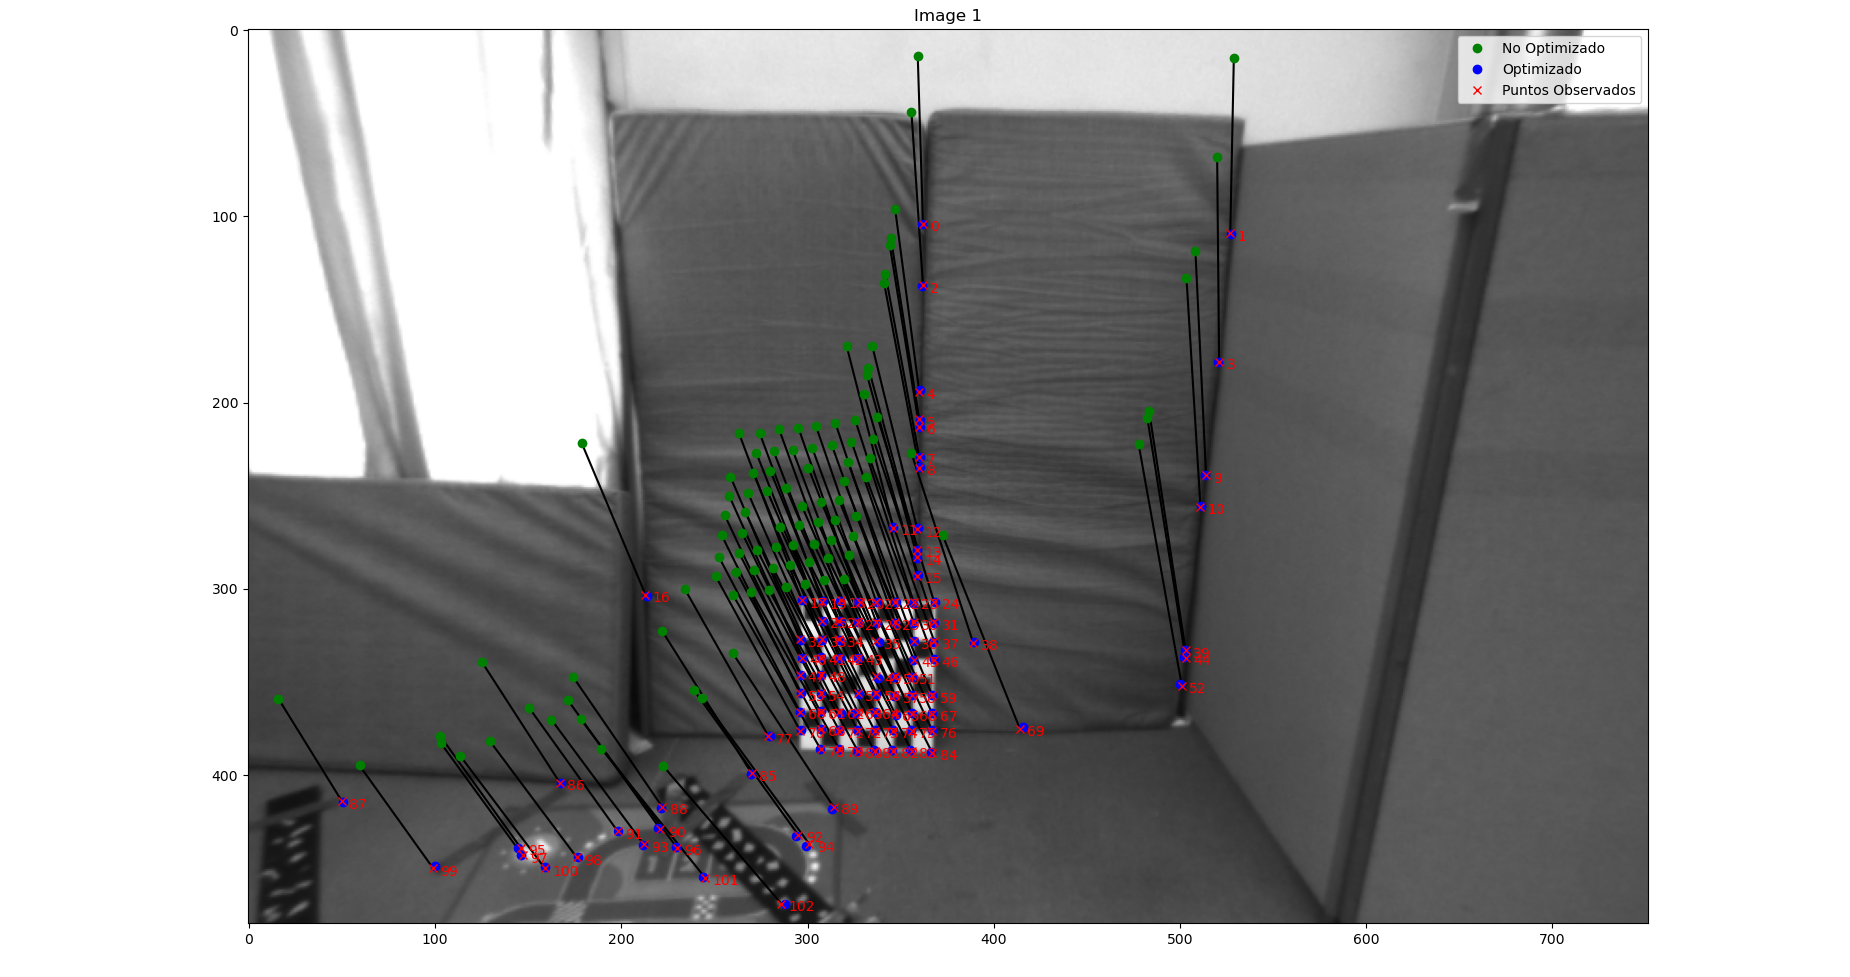
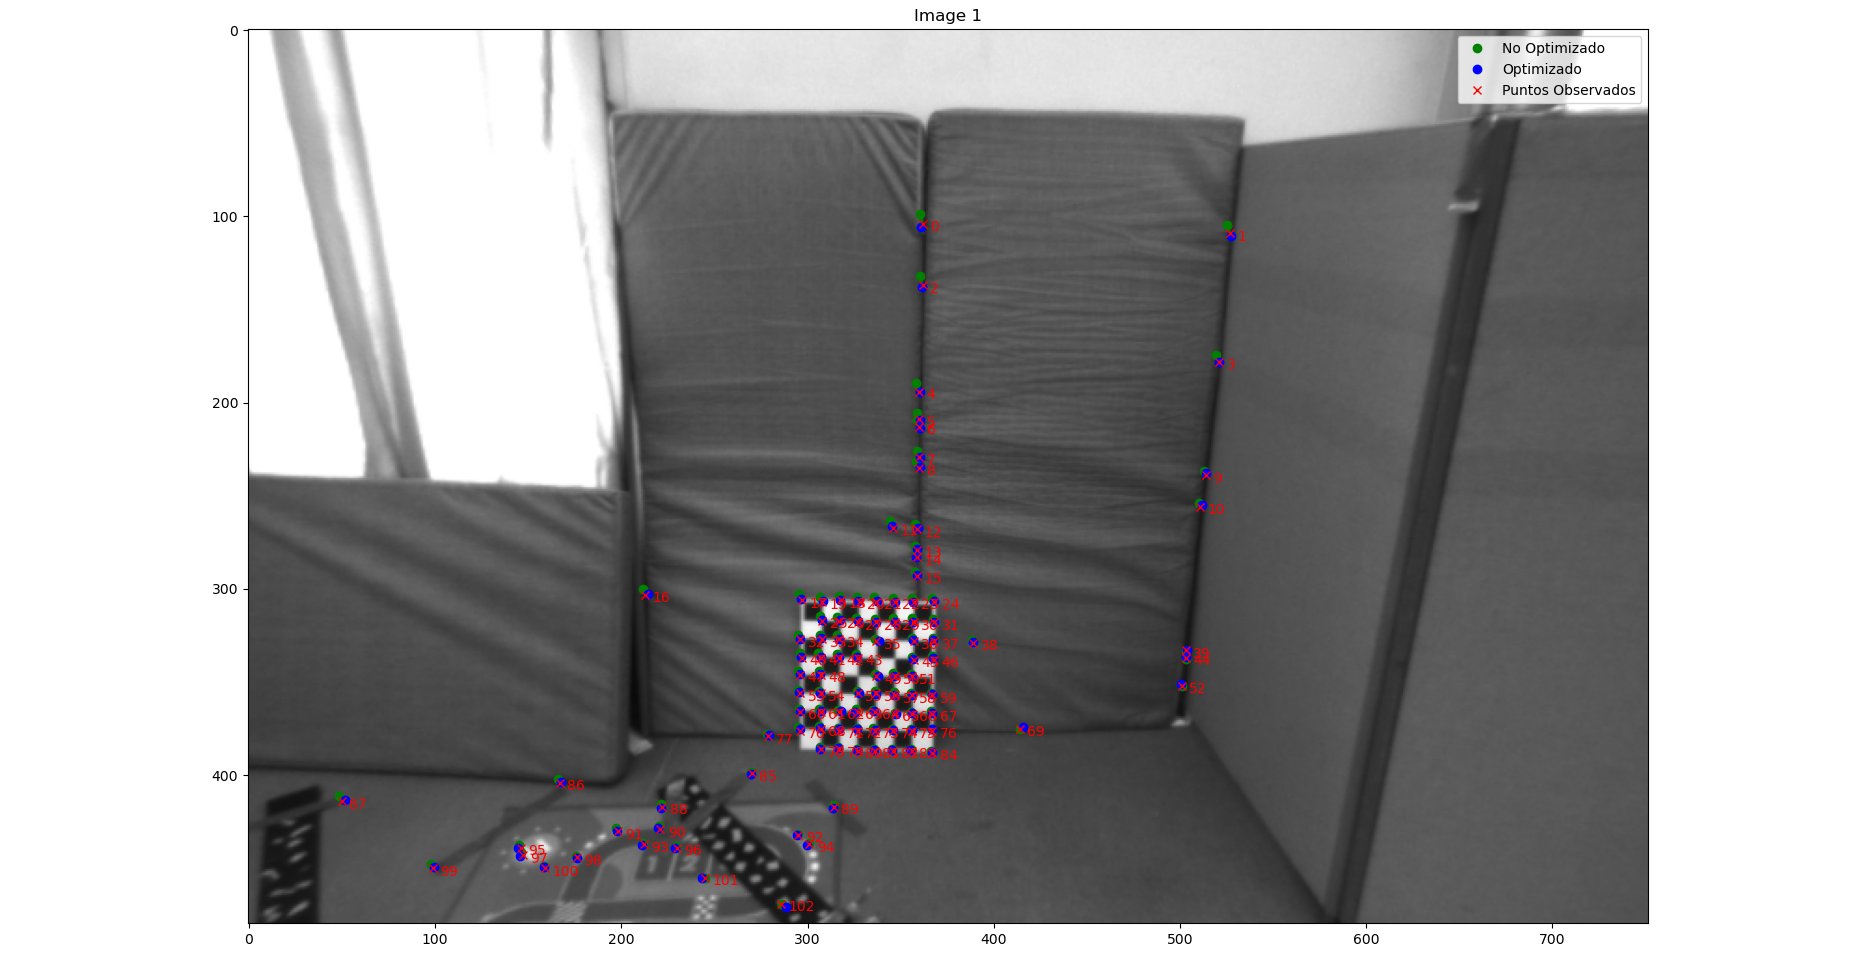
p4 last details

diff --git a/p4/main2_2.py b/p4/main2_2.py
@@ -1,0 +1,156 @@
+#####################################################################################
+#
+# MRGCV Unizar - Computer vision - Laboratory 3
+#
+# Title: Bundle Adjustment and Multiview Geometry
+#
+# Date: 26 October 2020
+#
+#####################################################################################
+#
+# Authors: Jesus Bermudez, Richard Elvira, Jose Lamarca, JMM Montiel
+#
+# Version: 1.0
+#
+#####################################################################################
+
+from mpl_toolkits.mplot3d import Axes3D
+
+import matplotlib.pyplot as plt
+import numpy as np
+import cv2
+import scipy.linalg as scAlg
+import csv
+import scipy as sc
+import scipy.optimize as scOptim
+import scipy.io as sio
+
+import utils.utils as utils
+import utils.plot_utils as plot_utils
+from scipy.linalg import expm, logm
+import time
+
+work_dir = "/home/hsunekichi/Desktop/Computer_Vision_Practicas/p4/"
+work_dir = ""
+
+def load_data():
+    T_wc1 = np.loadtxt(work_dir+"data/T_w_c1.txt")
+    T_wc2 = np.loadtxt(work_dir+"data/T_w_c2.txt")
+    T_wc3 = np.loadtxt(work_dir+"data/T_w_c3.txt")
+    K_c = np.loadtxt(work_dir+"data/K_c.txt")
+    X_w = np.loadtxt(work_dir+"data/X_w.txt")
+    x1Data = np.loadtxt(work_dir+"data/x1Data.txt")
+    x2Data = np.loadtxt(work_dir+"data/x2Data.txt")
+    x3Data = np.loadtxt(work_dir+"data/x3Data.txt")
+    return T_wc1, T_wc2, T_wc3, K_c, X_w, x1Data, x2Data, x3Data
+
+
+
+if __name__ == "__main__":
+    np.set_printoptions(precision=4,linewidth=1024,suppress=True)
+
+    _, _, _, K_c, _, x1Data, x2Data, x3Data = load_data()
+
+    #plot_utils.plot_3D_scene(T_wc1, T_wc2, T_wc3, X_w)
+    
+    im1_pth = work_dir+"images/image1.png"
+    im2_pth = work_dir+"images/image2.png"
+    im3_pth = work_dir+"images/image3.png"
+
+    image1 = cv2.imread(im1_pth)
+    image2 = cv2.imread(im2_pth)
+    image3 = cv2.imread(im3_pth)
+
+    # Construct the matches
+    kpCv1 = []
+    kpCv2 = []
+    kpCv3 = []
+    for kPoint in range(x1Data.shape[1]):
+        kpCv1.append(cv2.KeyPoint(x1Data[0, kPoint], x1Data[1, kPoint],1))
+        kpCv2.append(cv2.KeyPoint(x2Data[0, kPoint], x2Data[1, kPoint],1))
+        kpCv3.append(cv2.KeyPoint(x3Data[0, kPoint], x3Data[1, kPoint],1))
+
+
+    srcPts12, dstPts12, R12, t12 = utils.linearPoseEstimation(x1Data, x2Data, kpCv1, kpCv2, K_c)
+    srcPts13, dstPts13, R13, t13 = utils.linearPoseEstimation(x1Data, x3Data, kpCv1, kpCv3, K_c)
+
+    T_wc1 = np.eye(4)   # se toma la primera cámara como referencia
+    T_wc2 = utils.ensamble_T(R12, t12)
+    T_wc3 = utils.ensamble_T(R13, t13)
+
+    P1 = utils.projectionMatrix(K_c, T_wc1) 
+    P2 = utils.projectionMatrix(K_c, T_wc2)
+    P3 = utils.projectionMatrix(K_c, T_wc3)
+
+    X_w = utils.triangulate_points(P1, P2, srcPts12, dstPts12)
+    X_w3 = utils.triangulate_points(P1, P3, srcPts13, dstPts13)
+
+    x1_no_opt = utils.project_points(K_c, T_wc1, X_w)
+    x2_no_opt = utils.project_points(K_c, T_wc2, X_w)
+    x3_no_opt = utils.project_points(K_c, T_wc3, X_w3)
+    
+    ejecucion_R = False
+
+    #######################
+    if ejecucion_R:
+        T_wc_list = [T_wc1, T_wc2, T_wc3]
+        theta_t_list = utils.convert_T_wc_to_theta_t_list(T_wc_list)
+        xData_list = [x1Data, x2Data, x3Data]
+        theta_t_opt_list, X_w_opt = utils.resBundleProjection_2(theta_t_list, K_c, X_w, xData_list)
+
+        projected_points_list = utils.project_points_multi_view(theta_t_opt_list, K_c, X_w_opt)
+        x1_p_opt, x2_p_opt, x3_p_opt = projected_points_list
+
+        plot_utils.visualize_projection_2(image1, x1Data, x1_no_opt, x1_p_opt, 'Image 1')
+        plot_utils.visualize_projection_2(image2, x2Data, x2_no_opt, x2_p_opt, 'Image 2')
+        plot_utils.visualize_projection_2(image3, x3Data, x3_no_opt, x3_p_opt, 'Image 3')
+
+    else:
+        x1 = x1Data
+        x2 = x2Data
+        x3 = x3Data
+        using_2_views = False
+        if using_2_views:
+            T_wc1_opt, T_wc2_opt, X_w_opt = utils.run_bundle_adjustment_two_views(T_wc1, T_wc2, K_c, X_w, x1, x2)
+            T_wc1_opt, T_wc3_opt, X_w_opt = utils.run_bundle_adjustment_two_views(T_wc1_opt, T_wc3, K_c, X_w_opt, x1, x3)
+            print("TWO-VIEW")
+        else:
+            start_time = time.time()
+            T_wc_opt_list, X_w_opt = utils.run_bundle_adjustmentFull([T_wc1, T_wc2, T_wc3], K_c, X_w, [x1, x2, x3])
+            end_time = time.time()  
+            T_wc1_opt, T_wc2_opt, T_wc3_opt = T_wc_opt_list
+            elapsed_time_2 = end_time - start_time
+            print(f"Tiempo empleado en run_bundle_adjustmentFull: {elapsed_time_2:.2f} segundos")
+                
+
+        
+        x1_p_opt = utils.project_points(K_c, T_wc1_opt, X_w_opt)
+        x2_p_opt = utils.project_points(K_c, T_wc2_opt, X_w_opt)
+        x3_p_opt = utils.project_points(K_c, T_wc3_opt, X_w_opt)
+        
+        plot_utils.visualize_projection_2(image1, x1Data, x1_no_opt, x1_p_opt, 'Image 1')
+        plot_utils.visualize_projection_2(image2, x2Data, x2_no_opt, x2_p_opt, 'Image 2')
+        plot_utils.visualize_projection_2(image3, x3Data, x3_no_opt, x3_p_opt, 'Image 3')
+
+
+        plot_utils.visualize_projection(image1, x1Data, x1_p_opt, "Image 1 - Optimized Projection")
+        plot_utils.visualize_projection(image2, x2Data, x2_p_opt, "Image 2 - Optimized Projection")
+        plot_utils.visualize_projection(image3, x3Data, x3_p_opt, "Image 3 - Optimized Projection")
+    """
+    T_wc2_wrong: 
+    [[ 0.9902  0.1366 -0.0285 -0.0228]
+    [-0.1393  0.9564 -0.2567  0.0079]
+    [-0.0078  0.2582  0.9661  0.0258]
+    [ 0.      0.      0.      1.    ]]
+
+    T_wc2_opt: 
+    [[ 0.2843 -1.1693  0.1616 -0.7112]
+    [ 0.1871  1.108  -0.0215  0.1254]
+    [-0.4835 -1.0109  0.4435  0.672 ]]
+
+    Theta final: [-1.8359  0.3148  0.2362].
+    t_final: [-0.7112  0.1254  0.672 ]
+    """
+    #########################################################################################
+
+   

diff --git a/p4/main3.py b/p4/main3.py
@@ -69,36 +69,30 @@ if __name__ == "__main__":
         kpCv2.append(cv2.KeyPoint(x2Data[0, kPoint], x2Data[1, kPoint],1))
         kpCv3.append(cv2.KeyPoint(x3Data[0, kPoint], x3Data[1, kPoint],1))
 
-    srcPts12, dstPts12, R12, t12 =  utils.create_match_lists(kpCv1, kpCv2, x1Data, x2Data, K_c)
-    srcPts13, dstPts13, R13, t13 = utils.create_match_lists(kpCv1, kpCv3, x1Data, x3Data, K_c)
+    pts1, pts2, R12, t12 = utils.linearPoseEstimation(x1Data, x2Data, kpCv1, kpCv2, K_c)
+    # pts1_3, pts3, R13, t13 = utils.linearPoseEstimation(x1Data, x3Data, kpCv1, kpCv3, K_c)
 
     T_wc1 = np.eye(4)   # se toma la primera cámara como referencia
     T_wc2 = utils.ensamble_T(R12, t12)
-    T_wc3 = utils.ensamble_T(R13, t13)
-    P1 = K_c @ T_wc1[:3, :]
-    P2 = K_c @ T_wc2[:3, :]
+    # T_wc3 = utils.ensamble_T(R13, t13)
 
-    X_w = utils.triangulate_points(P1, P2, srcPts12, dstPts12)
+    P1 = utils.projectionMatrix(K_c, T_wc1)
+    P2 = utils.projectionMatrix(K_c, T_wc2)
 
-    x1_no_opt = utils.project_points(K_c, T_wc1, X_w)
-    x2_no_opt = utils.project_points(K_c, T_wc2, X_w)
-    x3_no_opt = utils.project_points(K_c, T_wc3, X_w)
+    X_w = utils.triangulate_points(P1, P2, pts1, pts2)
 
     x1 = x1Data
     x2 = x2Data
     x3 = x3Data
 
-    T_wc1_opt, T_wc2_opt, T_wc3_opt, X_w_opt = utils.run_bundle_adjustmentFull(T_wc1, T_wc2, T_wc3, K_c, X_w, x1, x2, x3)
-
-    x1_p_opt = utils.project_points(K_c, T_wc1_opt, X_w_opt)
-    x2_p_opt = utils.project_points(K_c, T_wc2_opt, X_w_opt)
-    x3_p_opt = utils.project_points(K_c, T_wc3_opt, X_w_opt)
+    T_opt, X_w_opt = utils.run_bundle_adjustmentFull([T_wc1, T_wc2], K_c, X_w, [x1, x2])
+    T_wc1_opt, T_wc2_opt = T_opt
 
     if X_w_opt.shape[1] < 4:
         raise ValueError("Se requieren al menos 4 puntos para solvePnP con SOLVEPNP_EPNP")
 
     objectPoints = X_w_opt.T.astype(np.float64)
-    imagePoints = np.ascontiguousarray(x3[:2, :].T).reshape((x3.shape[1], 1, 2)) 
+    imagePoints = np.ascontiguousarray(x3[0:2,:].T).reshape((x3.shape[1], 1, 2))
     print("objectPoints", objectPoints.shape)
     print("imagePoints", imagePoints.shape)
 
@@ -112,14 +106,16 @@ if __name__ == "__main__":
     )
     
     R = utils.rotvec_to_rotmat(rvec)
+    R, _ = cv2.Rodrigues(rvec)
     print("Matriz de rotación R:", R)
     print("Vector de traslación t:", tvec)
 
-    T_c1_c3 = np.eye(4)
-    T_c1_c3[:3, :3] = R  #
-    T_c1_c3[:3, 3] = tvec.flatten()
+    T_wc3 = np.eye(4)
+    T_wc3[:3, :3] = R 
+    T_wc3[:3, 3] = tvec.flatten()
 
-    T_wc3 = T_wc1_opt @ T_c1_c3
+    T_cw3 = T_wc3.copy()
+    T_wc3 = np.linalg.inv(T_cw3)
 
     fig3D = plt.figure(1)
     ax = plt.axes(projection='3d', adjustable='box')
@@ -128,11 +124,11 @@ if __name__ == "__main__":
     ax.set_zlabel('Z')
 
     plot_utils.drawRefSystem(ax, np.eye(4, 4), '-', 'W')
-    plot_utils.drawRefSystem(ax, T_wc1, '-', 'C1')
-    plot_utils.drawRefSystem(ax, T_wc2, '-', 'C2')
+    plot_utils.drawRefSystem(ax, T_wc1_opt, '-', 'C1')
+    plot_utils.drawRefSystem(ax, T_wc2_opt, '-', 'C2')
     plot_utils.drawRefSystem(ax, T_wc3, '-', 'C3')
 
-    ax.scatter(X_w[0, :], X_w[1, :], X_w[2, :], marker='.')
+    ax.scatter(X_w_opt[0, :], X_w_opt[1, :], X_w_opt[2, :], marker='.')
 
     #Matplotlib does not correctly manage the axis('equal')
     xFakeBoundingBox = np.linspace(0, 4, 2)

diff --git a/p4/utils/utils.py b/p4/utils/utils.py
@@ -308,7 +308,7 @@ def residual_bundle_adjustmentNormalRot(params, K, imgPoints, nImages):
             ((x_proj[i][:2, :] - imgPoints[i])*(x_proj[i][:2, :] - imgPoints[i])).flatten()
         ))
 
-    print("Residuals: ", residuals.mean())
+    # print("Residuals: ", residuals.mean())
 
     return residuals
 

diff --git a/p4/Laboratory4.md b/p4/Laboratory4.md
@@ -33,7 +33,7 @@ El objetivo es minimizar el error de proyección entre:
 Difieren en la manera en que representan y optimizan las rotaciones de las cámaras, lo cual tiene implicaciones importantes en términos de estabilidad numérica y eficiencia. 
 
 ```python
-def run_bundle_adjustment_multi_view(T_wc_list, K, X_w, xData_list):
+def run_bundle_adjustmentFull(T, K, X_w, imgPoints):
 ```
 En esta implementación, cada matriz de transformación de cada cámara (excepto la primera, que se toma como referencia y se mantiene fija) se representa y optimiza directamente como una matriz T_xc (3x4). Es decir, cada matriz T_wc se representa por 12 paŕametros aplanados (9) de rotación y 3 de traslación
 
@@ -91,6 +91,10 @@ Una vez obtenidos rvec (vector de rotación) y tvec
     <figure>
         <img src="results/3_camaras.png" alt="Camara 3 respecto a 1" width="400"/>
         <figcaption>Camara 3 respecto a 1</figcaption>
+    </figure>
+    <figure>
+        <img src="results/3_camaras_all_optimices.png" alt="Camara 3 respecto a 1 correcta" width="400"/>
+        <figcaption>Camara 3 respecto a 1 correcta</figcaption>
     </figure>
 </div>
 
